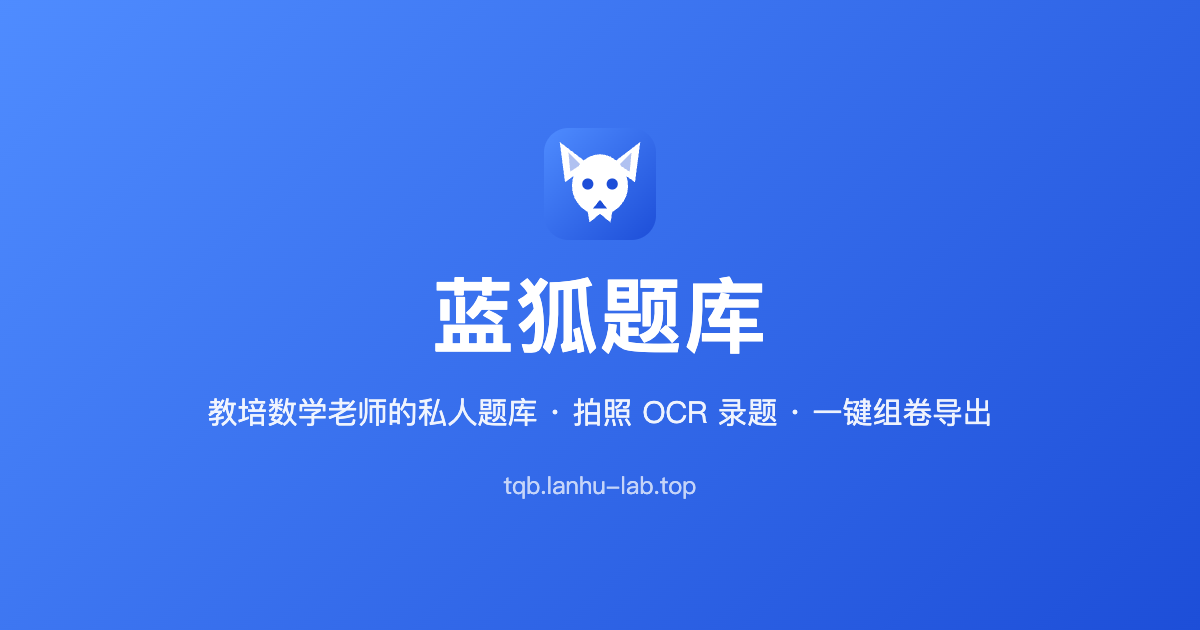
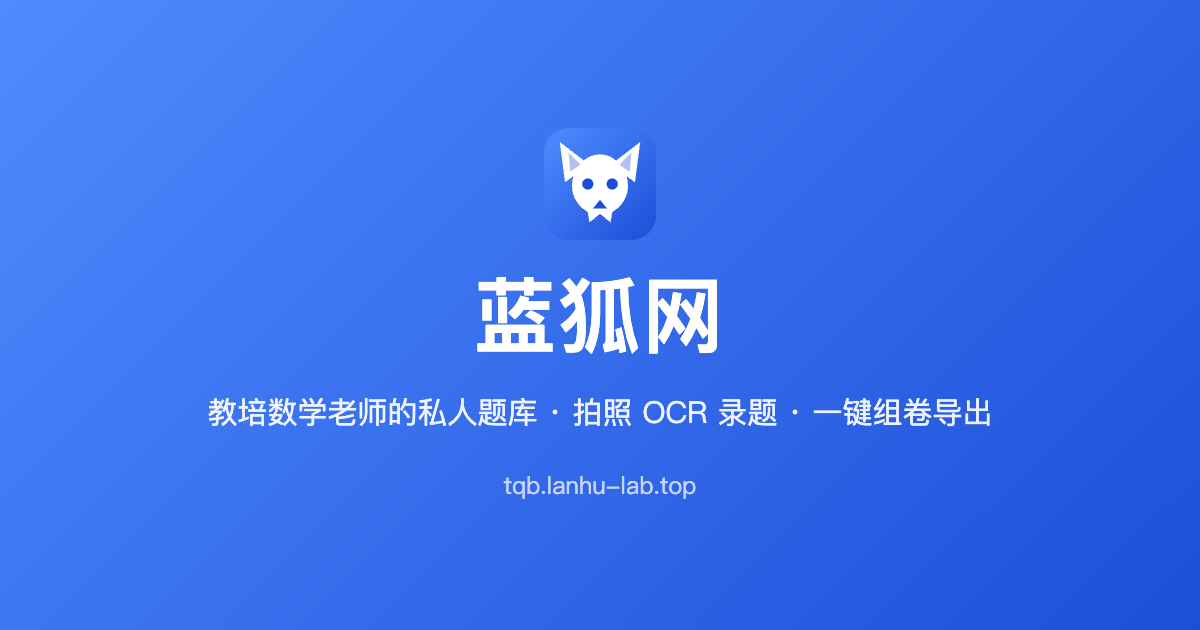
refactor(branding): 站名从「蓝狐题库」改为「蓝狐网」，对齐阿里云 ICP 备案名
- 前端 6 处站名（顶栏 / 登录卡片 / 浏览器标题 / 动态标题 / 页脚 / 路由标题）
- index.html SEO + OG + Twitter 元数据
- favicon.svg 注释、gen-icons.cjs 常量、verify-branding.cjs 断言
- 重制 og 分享封面（PNG 烧字，需重跑 gen-icons.cjs）
- 文档口径同步：beian-materials / learning-path / decisions / sms-auth-plan / lesson-39-sms-auth
  （公安备案材料写「蓝狐题库」与备案「蓝狐网」不符会被打回）

Changed region(s): [[0.3392, 0.4222, 0.6475, 0.573]]

diff --git a/lesson-03/index.html b/lesson-03/index.html
@@ -11,15 +11,15 @@
     <meta name="theme-color" content="#1d4ed8">
 
     <!--
-      站点标题 · 蓝狐题库
+      站点标题 · 蓝狐网
       ⚠ 之前这里是 "Vite App" —— 老师打开浏览器标签页 / 把链接发到班级群，
          微信 QQ 的卡片标题就显示「Vite App」，一眼半成品。
          页面级标题由 router 的 afterEach 按 meta.title 动态改写（见 src/router/index.js）。
     -->
-    <title>蓝狐题库 · 教培数学老师的私人题库</title>
+    <title>蓝狐网 · 教培数学老师的私人题库</title>
 
-    <meta name="description" content="蓝狐题库 —— 教培数学老师的私人题库。拍照 OCR 自动录题、分类检索、一键组卷导出 PDF/JPG，试卷分享链接不用登录也能看。">
-    <meta name="keywords" content="题库,组卷,试卷,OCR,教培,数学,蓝狐题库">
+    <meta name="description" content="蓝狐网 —— 教培数学老师的私人题库。拍照 OCR 自动录题、分类检索、一键组卷导出 PDF/JPG，试卷分享链接不用登录也能看。">
+    <meta name="keywords" content="题库,组卷,试卷,OCR,教培,数学,蓝狐网">
 
     <!--
       社交分享卡片（微信 / QQ / 飞书）
@@ -28,13 +28,13 @@
          现在做不到，先保证不是 "Vite App"。
     -->
     <meta property="og:type" content="website">
-    <meta property="og:site_name" content="蓝狐题库">
-    <meta property="og:title" content="蓝狐题库 · 教培数学老师的私人题库">
+    <meta property="og:site_name" content="蓝狐网">
+    <meta property="og:title" content="蓝狐网 · 教培数学老师的私人题库">
     <meta property="og:description" content="拍照 OCR 自动录题、分类检索、一键组卷导出 PDF/JPG。试卷分享链接不用登录也能看。">
     <meta property="og:image" content="/og-image.png">
     <meta property="og:url" content="https://tqb.lanhu-lab.top/">
     <meta name="twitter:card" content="summary_large_image">
-    <meta name="twitter:title" content="蓝狐题库 · 教培数学老师的私人题库">
+    <meta name="twitter:title" content="蓝狐网 · 教培数学老师的私人题库">
     <meta name="twitter:description" content="拍照 OCR 自动录题、分类检索、一键组卷导出 PDF/JPG。">
     <meta name="twitter:image" content="/og-image.png">
   </head>

diff --git a/lesson-03/src/components/SiteFooter.vue b/lesson-03/src/components/SiteFooter.vue
@@ -3,12 +3,12 @@
 //
 // 三个号/名的分工
 // ---------------
-// - 网站名「蓝狐题库」：公安备案填的「网站名称」，跟工信部 ICP 备案那条
+// - 网站名「蓝狐网」：公安备案填的「网站名称」，跟工信部 ICP 备案那条
 //   （浙ICP备2025185898号-2）保持一致 —— 审核时会核对「页面显示的名字」
 //   与备案信息是否相符，所以这里显式写出来，不只是写一个数字。
 // - ICP 备案号：工信部要求首页底部展示，并链到工信部查询页。
 // - 公安备案号：还没拿到（截止 2026-12-02），拿到后加在同一行。
-const SITE_NAME = '蓝狐题库'
+const SITE_NAME = '蓝狐网'
 const ICP = '浙ICP备2025185898号-2'
 const MIIT = 'https://beian.miit.gov.cn/'
 

diff --git a/lesson-03/src/router/index.js b/lesson-03/src/router/index.js
@@ -127,10 +127,10 @@ const router = createRouter({
 //    老师开多个标签页分不清自己在哪；把试卷链接发到班级群，
 //    微信卡片标题也是 "Vite App"（微信抓的是 document.title）。
 //
-//    格式：<页面名> · 蓝狐题库
+//    格式：<页面名> · 蓝狐网
 //    分享页（/share/:token）单独处理 —— 那页站在外面，
-//    标题写「XX 的试卷 · 蓝狐题库」比「试卷分享」有信息量。
-const SITE_NAME = '蓝狐题库'
+//    标题写「XX 的试卷 · 蓝狐网」比「试卷分享」有信息量。
+const SITE_NAME = '蓝狐网'
 router.afterEach((to) => {
   const page = to.meta?.title
   document.title = page ? `${page} · ${SITE_NAME}` : SITE_NAME

diff --git a/lesson-03/src/pages/SharedPaperPage.vue b/lesson-03/src/pages/SharedPaperPage.vue
@@ -43,9 +43,9 @@ async function load() {
     // 分享页标题带卷名 —— 老师把链接发到班级群，
     // 对方浏览器标签页 / 微信卡片标题能看出是哪张卷
     const name = res.data?.title
-    document.title = name ? `${name} · 蓝狐题库` : '试卷分享 · 蓝狐题库'
+    document.title = name ? `${name} · 蓝狐网` : '试卷分享 · 蓝狐网'
   } catch (e) {
-    document.title = '试卷分享 · 蓝狐题库'
+    document.title = '试卷分享 · 蓝狐网'
     errorMsg.value =
       e.response?.status === 404
         ? '链接不存在、已过期或已被老师取消。'

diff --git a/lesson-03/src/components/LoginPanel.vue b/lesson-03/src/components/LoginPanel.vue
@@ -213,7 +213,7 @@ async function handleRegister() {
 
 <template>
   <div class="login-panel">
-    <NCard title="🦊 蓝狐题库" style="max-width: 420px" :bordered="false">
+    <NCard title="🦊 蓝狐网" style="max-width: 420px" :bordered="false">
       <NTabs v-model:value="tab" type="line" animated @update:value="switchTab">
         <!-- === 登录 === -->
         <NTabPane name="login" tab="登录">

diff --git a/lesson-03/src/App.vue b/lesson-03/src/App.vue
@@ -153,7 +153,7 @@ function go(name) {
       <template v-else>
         <header class="top-bar">
           <div class="top-left">
-            <span class="brand">🦊 蓝狐题库</span>
+            <span class="brand">🦊 蓝狐网</span>
             <nav class="nav">
               <NButton
                 v-for="item in NAV_ITEMS"

diff --git a/docs/beian-materials.md b/docs/beian-materials.md
@@ -14,7 +14,7 @@
 
 | 项目 | 内容 |
 |---|---|
-| 网站名称 | **蓝狐题库**（主站 `lanhu-lab.top` 备案名为「蓝狐网」—— 子站沿用「蓝狐」前缀，一看就知道是主站旗下的）|
+| 网站名称 | **蓝狐网**（与阿里云 ICP 备案记录 `浙ICP备2025185898号-2` 登记的网站名称完全一致）|
 | 主域名 | `tqb.lanhu-lab.top` |
 | 网站用途 | 面向教培数学教师的私有题库管理工具（录题、分类、打标签、组卷、导出 PDF、试卷分享） |
 | 接入方式 | 通过域名访问（互联网接入服务商：阿里云） |
@@ -50,15 +50,17 @@
 | 站点 | 域名 | 备案名 | 页面显示 |
 |---|---|---|---|
 | 主站 | `lanhu-lab.top` | 蓝狐网 | — |
-| **子站** | `tqb.lanhu-lab.top` | **蓝狐题库** | 顶栏 🦊 蓝狐题库 / 浏览器标签页「蓝狐题库 · 教培数学老师的私人题库」/ 页脚 |
+| **子站** | `tqb.lanhu-lab.top` | **蓝狐网** | 顶栏 🦊 蓝狐网 / 浏览器标签页「蓝狐网 · 教培数学老师的私人题库」/ 页脚 |
 
 > ⚠ **一致性是硬要求**：公安备案填的「网站名称」要和工信部 ICP 备案那条
 > （`浙ICP备2025185898号-2`）登记的网站名称一致，审核时还会核对
 > **页面显示的名字**与备案信息是否相符 —— 所以网站页脚把站名和备案号并排公示。
 >
-> ⚠ **如果阿里云备案控制台里 `-2` 那条记录的名字不是「蓝狐题库」**：
-> 先在阿里云做一次**变更备案**（改网站名称，免费，3-20 工作日），
-> **再提交公安备案** —— 顺序反了会被打回。
+> ✅ **已确认（老大 2026-11-18）**：阿里云备案控制台里 `浙ICP备2025185898号-2`
+> 那条记录的网站名称就是「蓝狐网」—— 与页面显示名一致，**不需要做变更备案**，
+> 可以直接提交公安备案。
+>
+> ⚠ 后续若阿里云那边改了备案名，必须同步改页面并重新部署，否则会被打回。
 
 ### 2.1 访问控制与身份认证
 
@@ -165,8 +167,8 @@
 ## 五、备案提交前自查清单
 
 - [x] ICP 备案号已在网站页脚公示（`浙ICP备2025185898号-2`）
-- [x] **站点名称「蓝狐题库」已在页面顶栏 / 浏览器标题 / 页脚三处一致**
-- [ ] **阿里云备案控制台确认 `-2` 那条记录的网站名称 = 蓝狐题库**（不一致先做变更备案）
+- [x] **站点名称「蓝狐网」已在页面顶栏 / 浏览器标题 / 页脚三处一致**（含 og 分享封面 / favicon）
+- [x] **阿里云备案控制台确认 `-2` 那条记录的网站名称 = 蓝狐网**（与页面一致，无需变更备案）
 - [x] 网站正常访问，首页无异常
 - [x] HTTPS 正常，证书有效，HTTP 自动跳 HTTPS
 - [x] 安全响应头齐全

diff --git a/docs/sms-auth-plan.md b/docs/sms-auth-plan.md
@@ -1,7 +1,7 @@
 # 阿里云短信验证注册 · 选型与落地方案
 
 > 评估日期：2026-11-18 · 触发：老大问「阿里云短信认证服务是不是不用额外做主体短信备案，接 SDK 就能直接用」
-> 结论速览：**方向对，但老大给的两个链接只有一个适用；且「免备案」的真实代价是短信落款不能用「蓝狐题库」。**
+> 结论速览：**方向对，但老大给的两个链接只有一个适用；且「免备案」的真实代价是短信落款不能用「蓝狐网」。**
 
 ---
 
@@ -33,13 +33,13 @@
 
 **代价（必须让老大知道）：**
 - `SendSmsVerifyCode` 的 `SignName` **必填**，且官方明确「暂不支持使用自定义签名，请使用系统赠送的签名；系统赠送签名必须搭配系统赠送模板使用」
-  → **老师收到的验证码短信，落款是阿里云赠送的签名，不是「蓝狐题库」**。
+  → **老师收到的验证码短信，落款是阿里云赠送的签名，不是「蓝狐网」**。
   → 理由官方也给了：运营商近期加强短信签名管控，自定义签名下发失败率高。
 - 阿里云账号必须完成实名认证。
 
 **和「通用短信服务（DMS）」的区别：**
 - 短信认证服务（pnvs）：免签名模板报备，落款是赠送签名 —— 今天就能上。
-- 通用短信服务（DMS）：签名可自定义成「蓝狐题库」，但**要签名报备 + 模板报备 + 主体资质**（营业执照等）。
+- 通用短信服务（DMS）：签名可自定义成「蓝狐网」，但**要签名报备 + 模板报备 + 主体资质**（营业执照等）。
 - 报备用的主体信息与公安备案要填的**是同一套**，所以不是额外成本，只是时间差。
 
 ---
@@ -94,7 +94,7 @@
 
 ## 八、待老大拍板
 
-- **落款**：先用赠送签名（今天能上，落款不是「蓝狐题库」），还是等主体信息齐了换通用短信服务的自有签名？
+- **落款**：先用赠送签名（今天能上，落款不是「蓝狐网」），还是等主体信息齐了换通用短信服务的自有签名？
 - **范围**：短信注册是**替代**现有邀请码注册，还是与邀请码**并存**？（现在是邀请码自助注册：`POST /api/auth/register`）
 - **凭据**：AK 老大开好后直接给我，还是我把代码写完、老大自己填进 `/etc/teacherbank/app.env`？
 

diff --git a/docs/learning-path.md b/docs/learning-path.md
@@ -234,14 +234,14 @@ Phase 5: 打磨上线               1-2 周   ⏸ 待做（课 31 b 阶段视觉
 ### A. 必须做
 
 - [ ] **公安备案号回填 + 重新部署** —— `lesson-03/src/components/SiteFooter.vue` 里 `MPS` 常量是公示位（当前为空串），拿到号后填成 `浙公网安备XXXXXXXXXXXXXX号` → `npm run build` → `bash deploy/teacher-bank/rebuild.sh` → 页脚把 ICP 号与公安号同行公示（渲染条件已就位）。
-- [x] **站名口径已统一** —— 页脚 / 顶栏 / 浏览器标签 / 分享封面统一「蓝狐题库」，ICP 号 `浙ICP备2025185898号-2` 已公示（de44625，线上已生效）。
+- [x] **站名口径已统一** —— 页脚 / 顶栏 / 浏览器标签 / 分享封面统一「蓝狐网」（对齐阿里云 ICP 备案名），ICP 号 `浙ICP备2025185898号-2` 已公示（de44625，线上已生效）。
 - [x] **部署可追溯** —— rebuild.sh 新增「写版本标记」步骤，线上 `/opt/teacher-bank/VERSION` 记录 commit + 构建时间，不再靠 md5 猜线上版本。
 - [ ] **灰度真实用户补齐**（上线前最后一道）—— 见下方「灰度实况」。
 
 ### B. 卡在老大（只有你能给）
 
 - [ ] **备案主体信息**（`docs/beian-materials.md` 第一节待填项）：主办单位名称（须与营业执照一致）/ 统一社会信用代码 / 负责人姓名 / 身份证号 / 手机号 / 通信地址；另加 网站负责人 / 证件类型号码 / 联系电话 / 安全负责人 / 安全负责人电话。
-- [ ] **先查阿里云备案记录名** —— 控制台里 `浙ICP备2025185898号-2` 那条的「网站名称」是否就是「蓝狐题库」。**若不是 → 先做变更备案（3-20 工作日）再提交公安备案，顺序反了会被打回。**
+- [x] **阿里云备案记录名已确认 = 「蓝狐网」**（老大 2026-11-18 在阿里云控制台核对）→ 页面站名直接改成「蓝狐网」对齐，**省掉变更备案的 3-20 工作日**，公安备案可立即提交。
 - [ ] **提交公安备案** —— 入口 beian.mps.gov.cn，截止 **2026-12-02**（盘点日还剩 25 天）。
 
 ### C. 灰度实况（2026-11-07 实查线上 DB）

diff --git a/docs/decisions.md b/docs/decisions.md
@@ -178,14 +178,14 @@
 「决策 3 · 登录方式分阶段演进」里 **阶段 2 的前提已被推翻**：
 原表写「阶段 2 手机号+验证码 = 公安备案成功后的空窗期 / 需要短信平台资质（实名/主体信息，与备案主体一致）」。
 实测阿里云**短信认证服务**（pnvs）**免签名报备、免模板报备、免短信资质**，拿 AccessKey 即可用 → **短信注册不必等公安备案，现在就能做**。
-代价：只能用阿里云**赠送签名**，短信落款不是「蓝狐题库」；将来要自有签名再切通用短信服务（DMS，需签名报备，主体信息与备案同一套）。
+代价：只能用阿里云**赠送签名**，短信落款不是「蓝狐网」；将来要自有签名再切通用短信服务（DMS，需签名报备，主体信息与备案同一套）。
 选型与落地方案见 `docs/sms-auth-plan.md`。
 
 ## 决策 4 · 短信注册替代邀请码（老大 2026-11-18 10:44 拍板）
 
 | 拍板项 | 决定 |
 |---|---|
-| 短信落款 | **先用阿里云赠送签名**（不是「蓝狐题库」）。将来主体信息齐了再切通用短信服务（DMS）做自有签名 |
+| 短信落款 | **先用阿里云赠送签名**（不是「蓝狐网」）。将来主体信息齐了再切通用短信服务（DMS）做自有签名 |
 | 注册方式 | **短信验证码注册直接替代邀请码注册** —— 邀请码不再参与注册 |
 | 账号体系 | **手机号作为账号**；登录用手机号 + 密码，未注册可就地引导去注册 |
 | AK 填法 | **老大手动填**在服务器 `/etc/teacherbank/app.env`（chmod 600，不入 git） |

diff --git a/docs/lesson-39-sms-auth.md b/docs/lesson-39-sms-auth.md
@@ -23,7 +23,7 @@
 |---|---|---|
 | 签名/模板报备 | **免**（用赠送签名 + 赠送模板） | 要报备 |
 | 资质审核 | 免 | 要 |
-| 落款 | 平台赠送签名（不是「蓝狐题库」） | 可自定义 |
+| 落款 | 平台赠送签名（不是「蓝狐网」） | 可自定义 |
 | 计费 | 0.06 元/条起（核验免费），阶梯降价 | 另算 |
 | 开通 | 控制台开一下 + AccessKey | 同 |
 
